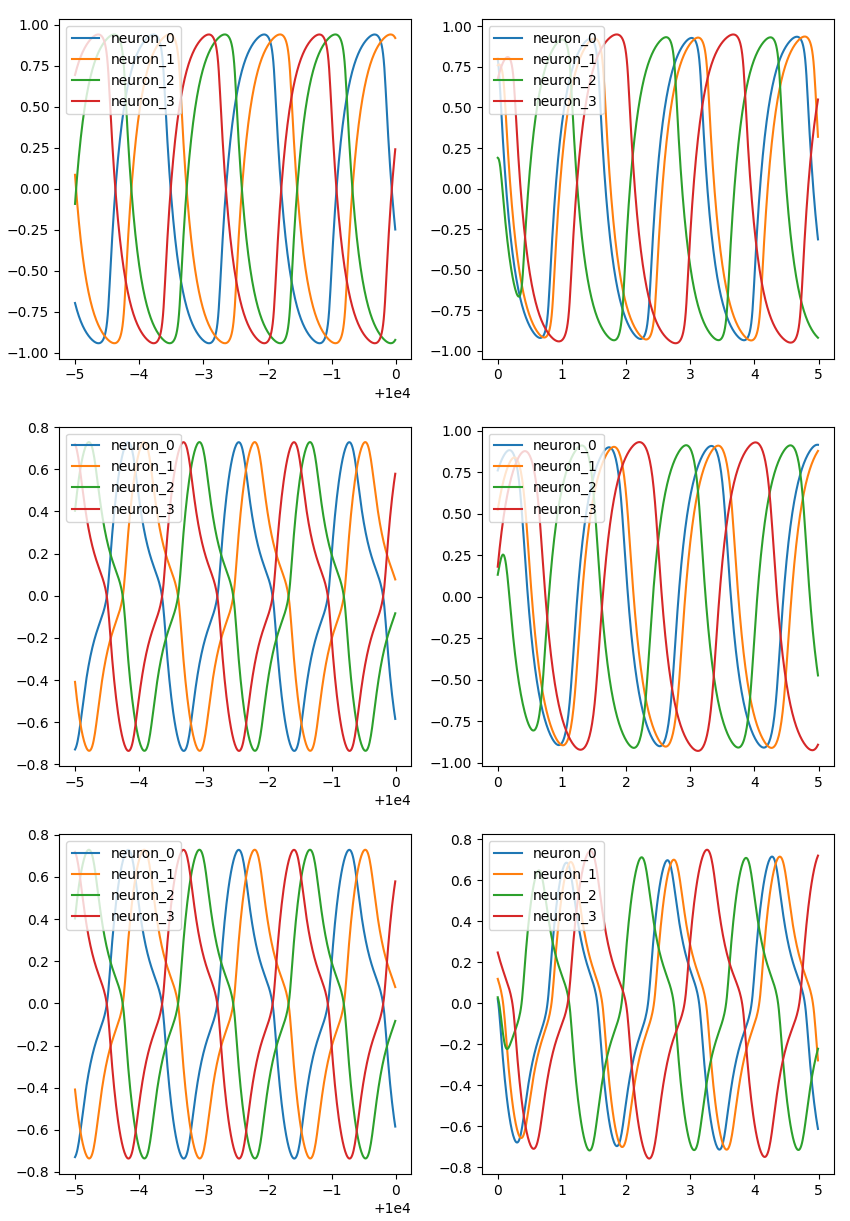
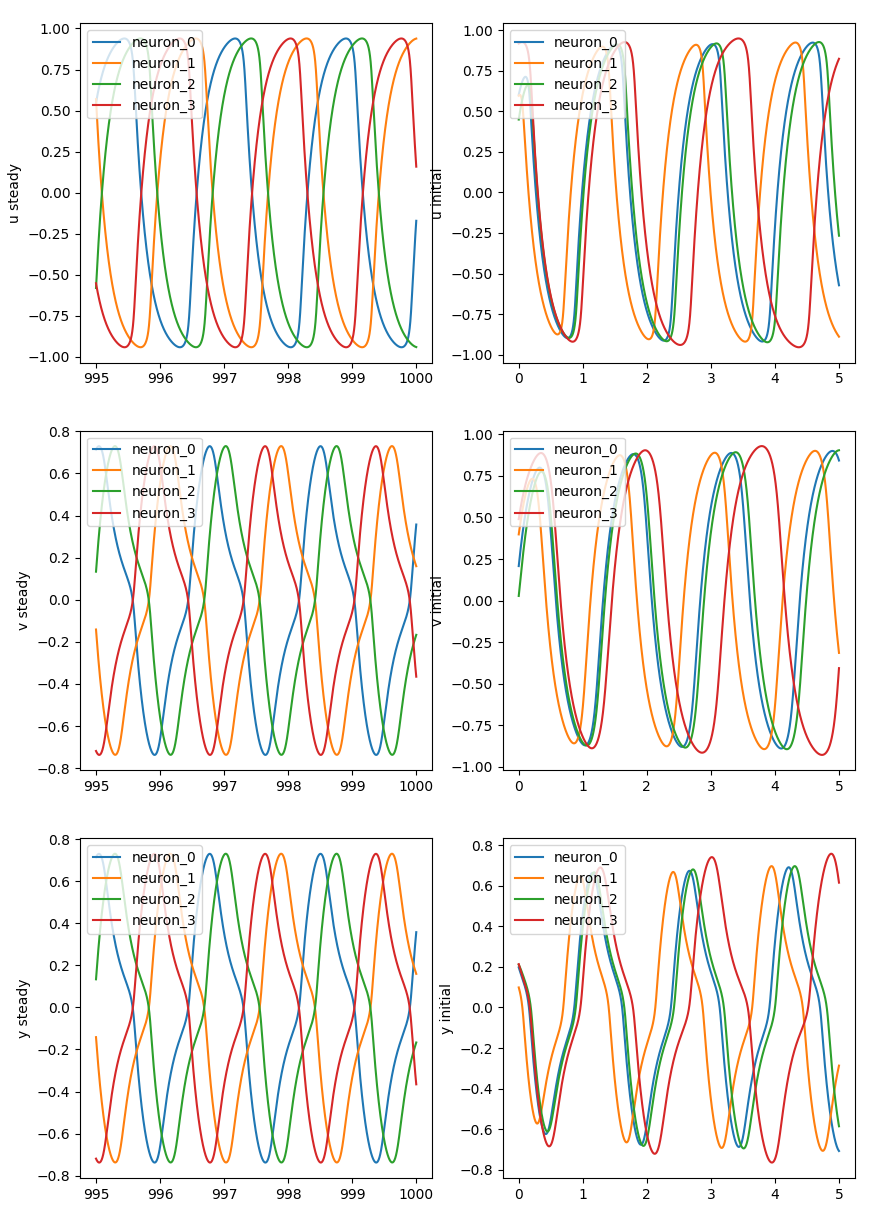
commit cpg exp 1 plot correction and updated README

Changed region(s): [[0.0, 0.0, 0.9788, 0.6536], [0.0, 0.6847, 0.9788, 0.9959], [0.4588, 0.6224, 0.4894, 0.6847]]

diff --git a/cpg-wilson-cowan.py b/cpg-wilson-cowan.py
@@ -3,7 +3,7 @@ from tqdm import tqdm
 import matplotlib.pyplot as plt
 
 class CPGWilsonCowan(object):
-    def __init__(self, Tu, Tv, a, b, c, d, Su, Sv, mu, p,W, f = np.tanh, num = 4, dt = 0.01, n = 1000000):
+    def __init__(self, Tu, Tv, a, b, c, d, Su, Sv, mu, p,W, f = np.tanh, num = 4, dt = 0.001, n = 1000000):
         self.num = num
         self.Tu = Tu
         self.Tv = Tv
@@ -74,23 +74,29 @@ class CPGWilsonCowan(object):
         labels = []
         fig, axes = plt.subplots(3, 2, figsize=(10, 15))
         for i in range(self.num):
-            axes[0, 0].plot(self.t[-500:], self.Au[-500:, i])
-            axes[0, 1].plot(self.t[:500], self.Au[:500, i])
+            axes[0, 0].plot(self.t[-5000:], self.Au[-5000:, i])
+            axes[0, 1].plot(self.t[:5000], self.Au[:5000, i])
             labels.append('neuron_'+str(i))
+        axes[0, 0].set_ylabel('u steady')
+        axes[0, 1].set_ylabel('u initial') 
         axes[0, 0].legend(labels, loc = 'upper left')
         axes[0, 1].legend(labels, loc = 'upper left')
         labels = []
         for i in range(self.num):
-            axes[1, 0].plot(self.t[-500:], self.Ay[-500:, i])
-            axes[1, 1].plot(self.t[:500], self.Av[:500, i])
+            axes[1, 0].plot(self.t[-5000:], self.Ay[-5000:, i])
+            axes[1, 1].plot(self.t[:5000], self.Av[:5000, i])
             labels.append('neuron_'+str(i))
         axes[1, 0].legend(labels, loc = 'upper left')
         axes[1, 1].legend(labels, loc = 'upper left')
+        axes[1, 0].set_ylabel('v steady')
+        axes[1, 1].set_ylabel('v initial') 
         labels = []
         for i in range(self.num):
-            axes[2, 0].plot(self.t[-500:], self.Ay[-500:, i])
-            axes[2, 1].plot(self.t[:500], self.Ay[:500, i])
+            axes[2, 0].plot(self.t[-5000:], self.Ay[-5000:, i])
+            axes[2, 1].plot(self.t[:5000], self.Ay[:5000, i])
             labels.append('neuron_'+str(i))
+        axes[2, 0].set_ylabel('y steady')
+        axes[2, 1].set_ylabel('y initial') 
         axes[2, 0].legend(labels, loc = 'upper left')
         axes[2, 1].legend(labels, loc = 'upper left')
         fig.savefig('plots/cpg_wilson_cowan_exp1.png')

diff --git a/README.md b/README.md
@@ -87,5 +87,6 @@ All neuron models are similar
 - W = walking gait connection matrix
 - p = 0.5
 
+
 The following plot depicts the results of the experiment:
 ![](plots/cpg_wilson_cowan_exp1.png)
